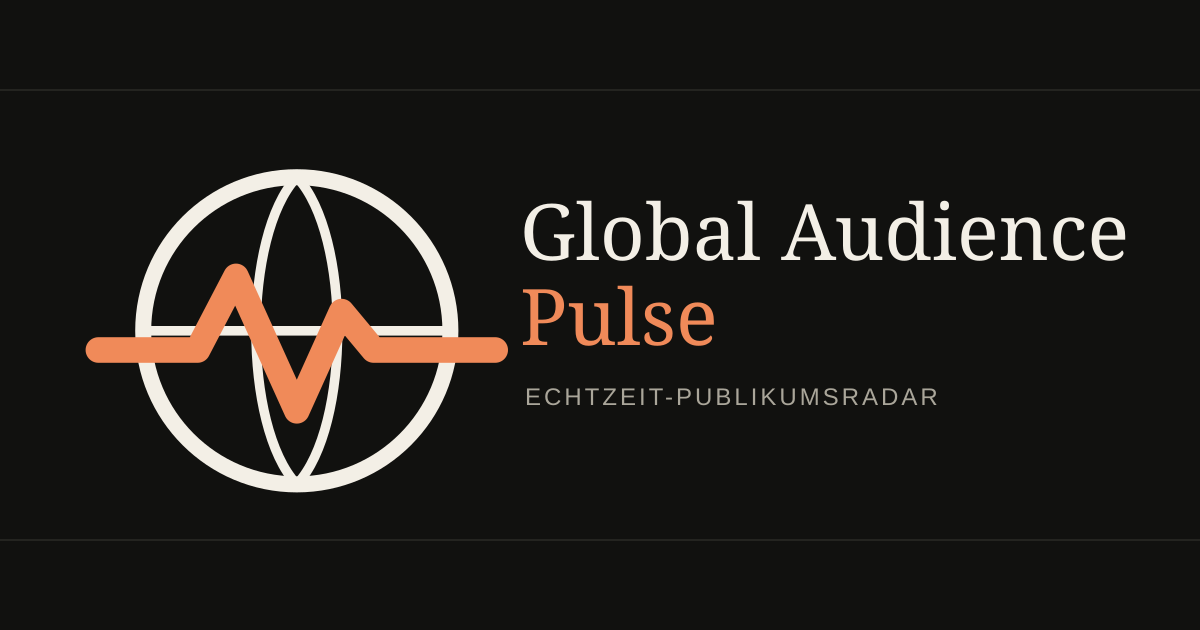
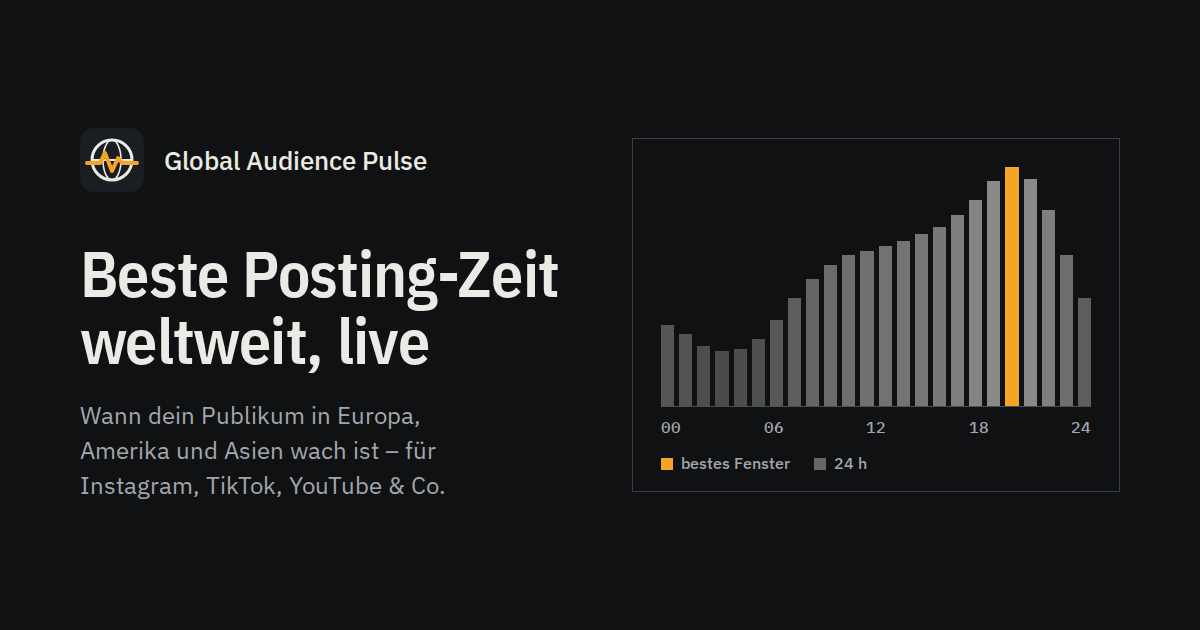
style(O-010): new social preview images in the Abflugtafel style, DE and EN
The old preview (cream/orange, Georgia, tracked caps label) carried exactly the
look O-013/O-014 removed. scripts/generate-og.mjs renders 1200x630 with the
site's own IBM Plex files via Chromium (npm run og); the curve is a stylised
day, not data. The page switches og:image/twitter:image with the language.

Claude-Session: https://claude.ai/code/session_01NsPaP5HFBxMhnbM5QryeAX

Changed region(s): [[0.0617, 0.2111, 0.9558, 0.7841], [0.5242, 0.7238, 0.74, 0.754]]

diff --git a/src/i18n/LocaleProvider.tsx b/src/i18n/LocaleProvider.tsx
@@ -10,6 +10,7 @@ import {
 import {
   INTL_LOCALE,
   SEO,
+  SITE_URL,
   STORAGE_KEY,
   detectLocale,
   localeUrl,
@@ -70,6 +71,10 @@ export function LocaleProvider({ children }: { children: ReactNode }) {
     set('meta[name="twitter:title"]', 'content', seo.title)
     set('meta[name="twitter:description"]', 'content', seo.description)
     set('link[rel="canonical"]', 'href', localeUrl(locale))
+    // O-010: preview image per language (crawlers that run JS; the static HTML keeps the German one)
+    const image = `${SITE_URL}${locale === 'en' ? 'og-image-en.png' : 'og-image.png'}`
+    set('meta[property="og:image"]', 'content', image)
+    set('meta[name="twitter:image"]', 'content', image)
   }, [locale])
   const value = useMemo(
     () => ({ locale, intl: INTL_LOCALE[locale], setLocale }),

diff --git a/index.html b/index.html
@@ -70,7 +70,10 @@
     />
     <meta property="og:image:width" content="1200" />
     <meta property="og:image:height" content="630" />
-    <meta property="og:image:alt" content="Global Audience Pulse – Logo mit Globus und Pulslinie" />
+    <meta
+      property="og:image:alt"
+      content="Global Audience Pulse – beste Posting-Zeit weltweit, live: Tagesverlauf mit dem besten Fenster"
+    />
     <meta name="twitter:card" content="summary_large_image" />
     <meta
       name="twitter:title"

diff --git a/ROADMAP-OPTIK.md b/ROADMAP-OPTIK.md
@@ -56,7 +56,7 @@ Abstände 4 · 8 · 12 · 16 · 24 · 32 · 48 · 64; Fließtext `max-width: 68c
 | O-007 | **Dunkelmodus-Feinschliff**: Flächen, Haarlinien, Akzent-Kontrast, Diagramm-Rampen                                                                                                                                                                                                                                                                                                                                                                                                                                                                                                                                                                             | Antigravity                   | offen                                                                                                                                                      |
 | O-008 | **Bewegungskonzept**: ein orchestrierter Auftritt je Bereich, verstreute Effekte entfernen, einheitliche Dauer                                                                                                                                                                                                                                                                                                                                                                                                                                                                                                                                                 | Codex                         | offen                                                                                                                                                      |
 | O-009 | **Lade- und Leerzustände**: ruhige Platzhalter in Endgröße (kein Springen), klare Leertexte                                                                                                                                                                                                                                                                                                                                                                                                                                                                                                                                                                    | Codex                         | offen                                                                                                                                                      |
-| O-010 | **Englisches Vorschaubild** und og:image je Sprache (aus T-082)                                                                                                                                                                                                                                                                                                                                                                                                                                                                                                                                                                                                | Cursor                        | offen                                                                                                                                                      |
+| O-010 | **Englisches Vorschaubild** und og:image je Sprache (aus T-082)                                                                                                                                                                                                                                                                                                                                                                                                                                                                                                                                                                                                | Claude                        | erledigt (neues Vorschaubild im Stil Abflugtafel mit echten Schriften, DE + EN, `npm run og`; altes Creme/Georgia-SVG entfernt)                            |
 | O-011 | **Planer-Einstieg** sichtbar aus Hero und „Frag den Pulse“ (aus T-083)                                                                                                                                                                                                                                                                                                                                                                                                                                                                                                                                                                                         | Cursor                        | offen                                                                                                                                                      |
 | O-012 | **Abnahme-Runde** nach jedem Merge und am Ende: 360 px, dunkel, axe, Lighthouse, Tastatur, beide Sprachen (aus T-084)                                                                                                                                                                                                                                                                                                                                                                                                                                                                                                                                          | Claude                        | laufend                                                                                                                                                    |
 | O-013 | **Nicht vibecoded** (Belkis 2026-10-11): KI-Design-Merkmale entfernen – 62 gesperrte Großbuchstaben-Labels (13 von 17 H2 mit Eyebrow), 337 kleine Mono-Labels (Mono nur noch für Zahlen/Zeiten), 53 „·“-Ketten in echte Zeilen/Sätze auflösen, Pfeile an Buttons, Deko-Rahmen; Satzschreibung statt CAPS                                                                                                                                                                                                                                                                                                                                                       | Codex → Claude                | erledigt (CAPS 62→0, Eyebrows 13→3, Mono-Textlabels 337→32, „·“-Ketten aufgelöst; Ziffernzellen für neue Schriften korrigiert)                             |
